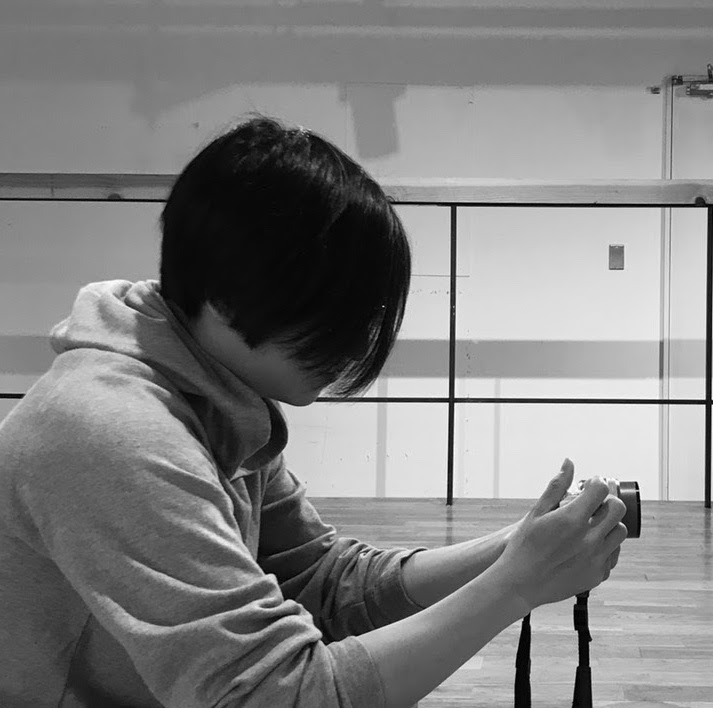
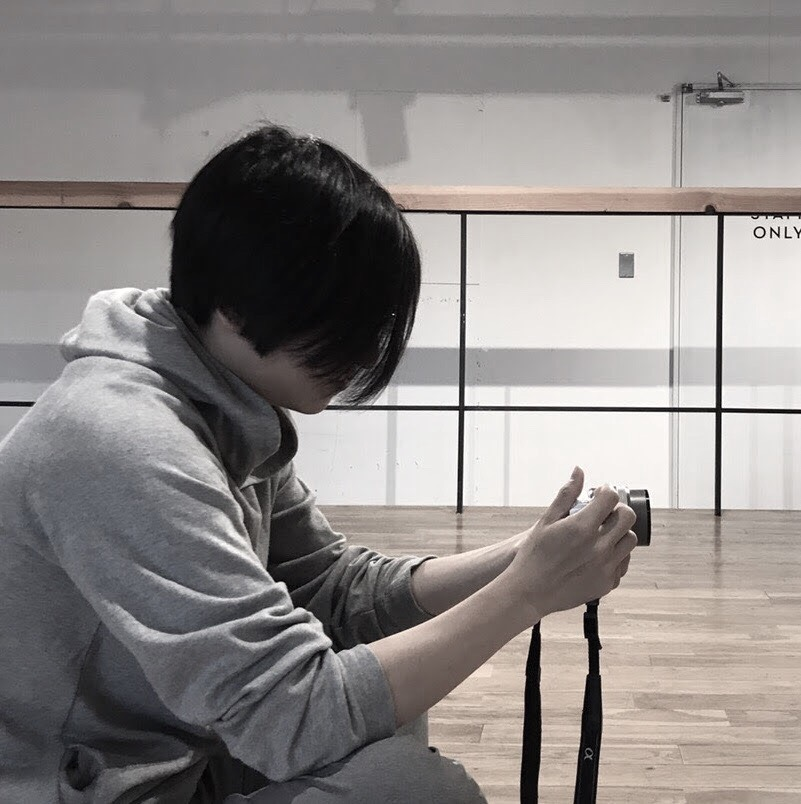
Update photo

diff --git a/_members/masayoshi.md b/_members/masayoshi.md
@@ -2,7 +2,7 @@
 layout: member
 name: Masayoshi Kataoka
 membership: Member, サイト管理
-image_path: /assets/images/photo/prof/mkataoka-color.jpg
+image_path: /assets/images/photo/prof/mkataoka.jpg
 number: 99
 instagram: https://www.instagram.com/mkataoka73/
 twitter: https://twitter.com/mkataoka_yogabu
